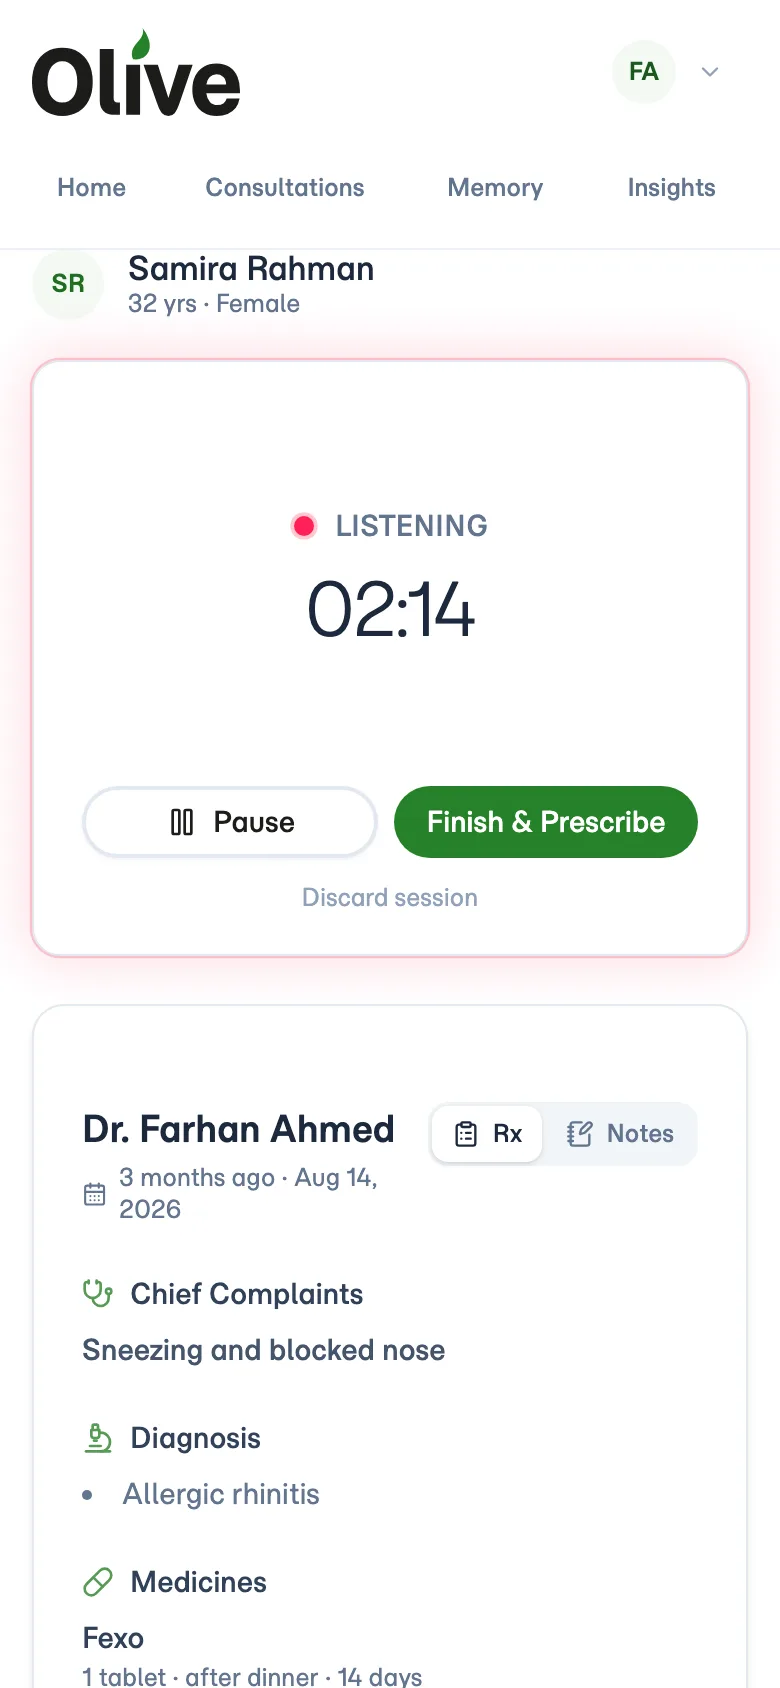
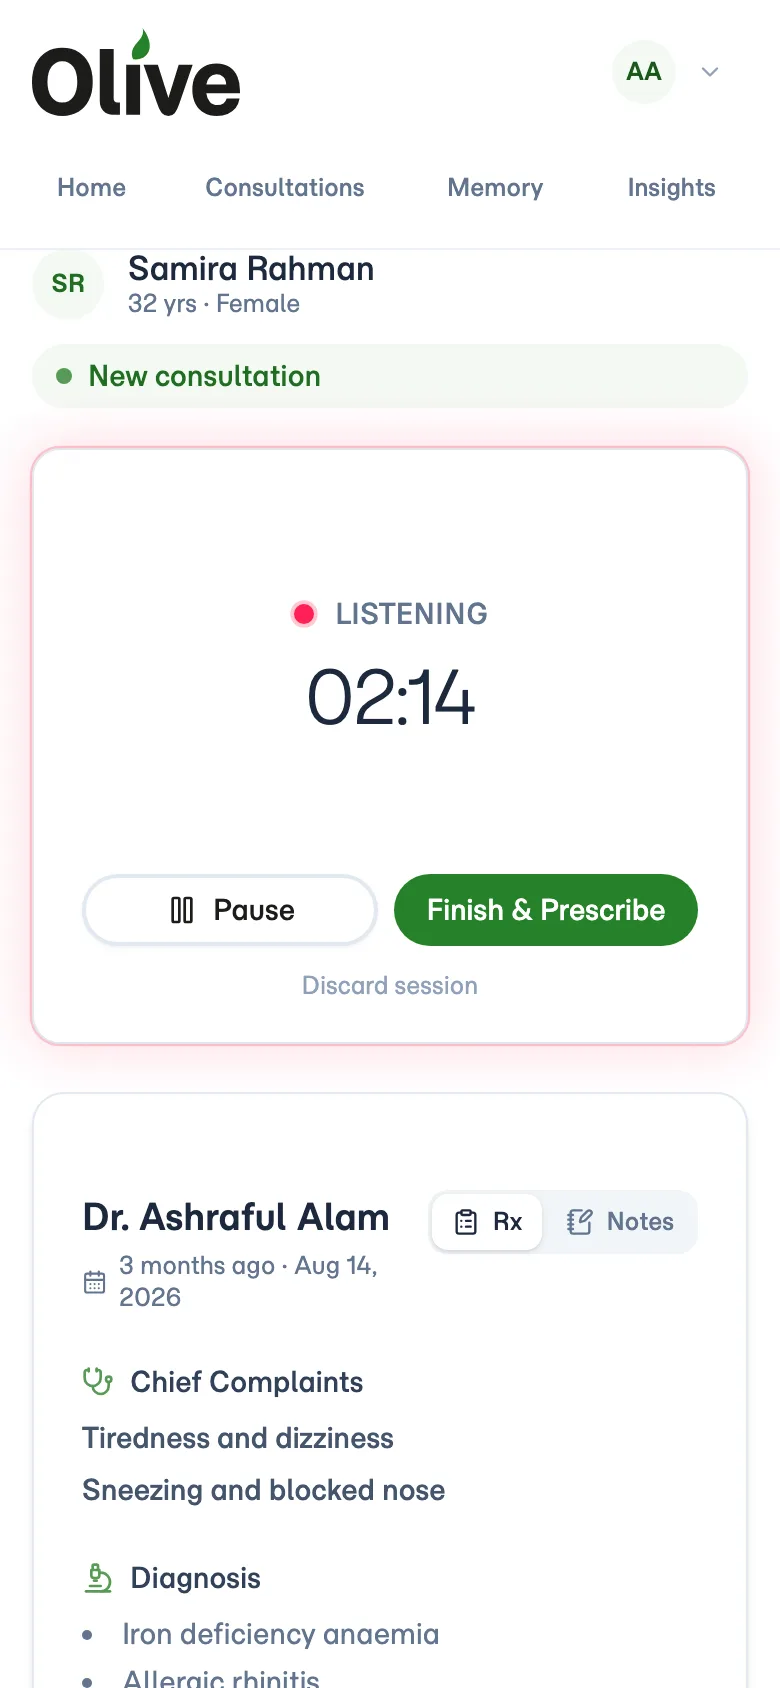
Retake landing screenshots with a fuller, more credible consultation
- Doctor is Dr. Ashraful Alam with no BMDC number, so no invented number can
  match a real doctor; the letterhead uses the new Forest Green default.
- The recording screen shows the patient, the New consultation pill, the
  live recorder and a complete previous visit (two complaints, two
  diagnoses, three medicines).
- The draft has the doctor's vitals filled in, and no longer shows a
  spurious "Last recorded" line (the harness now passes the session id).
- Desktop shots use the 1024px layout at 2x so text stays readable once
  scaled into the landing page column.

diff --git a/probe/landing-shots.tsx b/probe/landing-shots.tsx
@@ -7,6 +7,7 @@ import DashboardNavbar from "@/components/dashboard/navbar";
 import PatientChip from "@/components/dashboard/consultation/patient-chip";
 import RecorderCard from "@/components/dashboard/consultation/recorder-card";
 import ConsultationCardMemo from "@/components/dashboard/consultation/consultation-card";
+import ConsultationModeBanner from "@/components/consultation-start/consultation-mode-banner";
 import DocumentSwitcher, { type PrescriptionDocument } from "@/components/prescription/document-switcher";
 import PrescriptionActions from "@/components/prescription/prescription-actions";
 import { usePrescriptionDocuments } from "@/components/prescription/prescription-documents";
@@ -34,20 +35,22 @@ const DATE_OF_BIRTH = "1994-06-12";
 
 useAuthStore.setState({
     userId: "doctor-demo", isLoggedIn: true, activeView: "doctor",
-    clinician: { name: "Farhan Ahmed" },
+    clinician: { name: "Ashraful Alam" },
 } as never);
 
+// No BMDC number: an invented one could belong to a real doctor. The accent is left to
+// the default, so the letterhead shows what a new doctor gets.
 const LETTERHEAD = resolveLetterhead({
-    clinician_name: "Dr. Farhan Ahmed",
-    qualification: "MBBS (Dhaka Medical College)\nFCPS (Medicine)",
-    bmdc_no: "DEMO-0000",
+    clinician_name: "Dr. Ashraful Alam",
+    qualification: "MBBS, FCPS (Medicine)",
     clinician_header_config: {
-        preset: "classic-split", accent_color: "#0f766e", show_medical_symbol: true,
+        preset: "classic-split", show_medical_symbol: true,
         designation: "Consultant, Internal Medicine",
-        chamber_name: "Olive Demo Medical Centre",
+        chamber_name: "Evening Chamber, Dhanmondi",
         contact_lines: [
-            { id: "demo-address", kind: "address", value: "Suite 201, Example Road, Dhaka" },
+            { id: "demo-address", kind: "address", value: "Dhanmondi, Dhaka" },
             { id: "demo-hours", kind: "hours", value: "Saturday–Thursday · 5:00–9:00 PM" },
+            { id: "demo-serial", kind: "serial", value: "Serial: 01XXX-XXXXXX" },
         ],
     },
 });
@@ -63,6 +66,7 @@ const DRAFT = {
         { complaint_name: "Nausea", clinical_note: "Vomited once; tolerating oral fluids." },
     ],
     history: [
+        { history_name: "Iron deficiency anaemia", clinical_note: "Diagnosed Aug 2026; on iron and folic acid." },
         { history_name: "Family history of diabetes", clinical_note: "Father." },
         { history_name: "No known drug allergy", clinical_note: "" },
     ],
@@ -95,20 +99,29 @@ const DRAFT = {
     safety_net: ["Return immediately for bleeding, severe abdominal pain, repeated vomiting or breathing difficulty."],
 } as unknown as PrescriptionResponseType;
 
+const routine = (meals: string[]) => Object.fromEntries(
+    ["before_breakfast", "after_breakfast", "before_lunch", "after_lunch", "before_dinner", "after_dinner"]
+        .map((meal) => [meal, meals.includes(meal)]).concat([["gap_hour", 0]]),
+);
+
 const PREVIOUS_VISIT: PrescriptionType = {
     prescription_id: "rx-previous", session_id: "session-previous", clinician_id: "doctor-demo",
-    clinician_name: "Dr. Farhan Ahmed", patient_id: PATIENT_ID, patient_name: PATIENT.name,
+    clinician_name: "Dr. Ashraful Alam", patient_id: PATIENT_ID, patient_name: PATIENT.name,
     created_at: "2026-08-14T19:05:00+06:00", updated_at: "2026-08-14T19:05:00+06:00",
     prescription_data: {
-        chief_complaints: [{ name_text: "Sneezing and blocked nose", notes: "", ccn_id: null, duration: "2 weeks" }],
-        diagnoses: [{ name_text: "Allergic rhinitis", dn_id: null }],
-        rx_list: [{
-            trade_name: "Fexo", generic_name: "Fexofenadine 120 mg", medicine_id: null, dosage: "1 tablet", duration: "14 days",
-            routine: { before_breakfast: false, after_breakfast: false, before_lunch: false, after_lunch: false, before_dinner: false, after_dinner: true, gap_hour: 0 },
-        }],
+        chief_complaints: [
+            { name_text: "Tiredness and dizziness", notes: "", ccn_id: null, duration: "1 month" },
+            { name_text: "Sneezing and blocked nose", notes: "", ccn_id: null, duration: "2 weeks" },
+        ],
+        diagnoses: [{ name_text: "Iron deficiency anaemia", dn_id: null }, { name_text: "Allergic rhinitis", dn_id: null }],
+        rx_list: [
+            { trade_name: "Ferrous fumarate + Folic acid", generic_name: "Iron with folic acid", medicine_id: null, dosage: "1 capsule", duration: "3 months", routine: routine(["after_breakfast"]) },
+            { trade_name: "Fexo", generic_name: "Fexofenadine 120 mg", medicine_id: null, dosage: "1 tablet", duration: "14 days", routine: routine(["after_dinner"]) },
+            { trade_name: "Mometasone nasal spray", generic_name: "Mometasone furoate", medicine_id: null, dosage: "2 puffs", duration: "1 month", routine: routine(["after_breakfast"]) },
+        ],
         histories: [], advice_list: [], investigations: [], on_examinations: [],
-        follow_up_days: null, follow_up_notes: null,
-        summary: "Seasonal allergic rhinitis. Avoid dust; review if symptoms persist.",
+        follow_up_days: 90, follow_up_notes: null,
+        summary: "Iron deficiency anaemia (Hb 9.8 g/dL) and seasonal allergic rhinitis. Iron and folic acid for 3 months; recheck CBC at review.",
     },
 } as unknown as PrescriptionType;
 
@@ -141,7 +154,10 @@ function RecordScreen() {
         <DoctorScreen>
             <RecordingSessionContext value={RECORDING}>
                 <div className="container flex flex-col py-6 md:h-[calc(100svh-136px)]">
-                    <div className="mb-5"><PatientChip userId={PATIENT_ID} /></div>
+                    <div className="mb-5 flex flex-col gap-3">
+                        <PatientChip userId={PATIENT_ID} />
+                        <ConsultationModeBanner isFollowUp={false} />
+                    </div>
                     <div className="grid w-full grid-cols-1 gap-6 md:min-h-0 md:flex-1 md:grid-cols-2 md:grid-rows-[auto_minmax(0,1fr)] md:gap-8">
                         <div className="flex-none md:col-start-1 md:row-start-1"><RecorderCard /></div>
                         <div className="md:col-start-2 md:row-span-2 md:row-start-1 md:min-h-0">
@@ -162,6 +178,7 @@ function ReviewScreen() {
     const { prescriptionPaper, clinicalNotes } = usePrescriptionDocuments({
         header: <ResolvedPrescriptionHeader letterhead={LETTERHEAD} responsive />,
         patientStrip,
+        sessionId: DRAFT.session_id,
         saveAndPrintButton: <Button className="h-12 w-full px-8 font-bold shadow-md sm:h-9 sm:w-auto">Save &amp; Print</Button>,
         onPrintNotes: () => {},
     });
@@ -187,7 +204,13 @@ function PrintScreen({ store }: { store: ReturnType<typeof createPrescriptionSto
 function Page() {
     const [store] = useState(createPrescriptionStore);
     const [ready, setReady] = useState(false);
-    useEffect(() => { void store.getState().getInitialPrescription(DRAFT).then(() => setReady(true)); }, [store]);
+    useEffect(() => {
+        void store.getState().getInitialPrescription(DRAFT).then(() => {
+            // Vitals are typed in by the doctor during the visit, not drafted.
+            store.getState().setVitals({ bp_systolic: 110, bp_diastolic: 70, pulse: 98, temperature: 101.2, spo2: 98, weight: 56 });
+            setReady(true);
+        });
+    }, [store]);
     if (!ready) return null;
 
     const screen = window.location.hash.slice(1);
